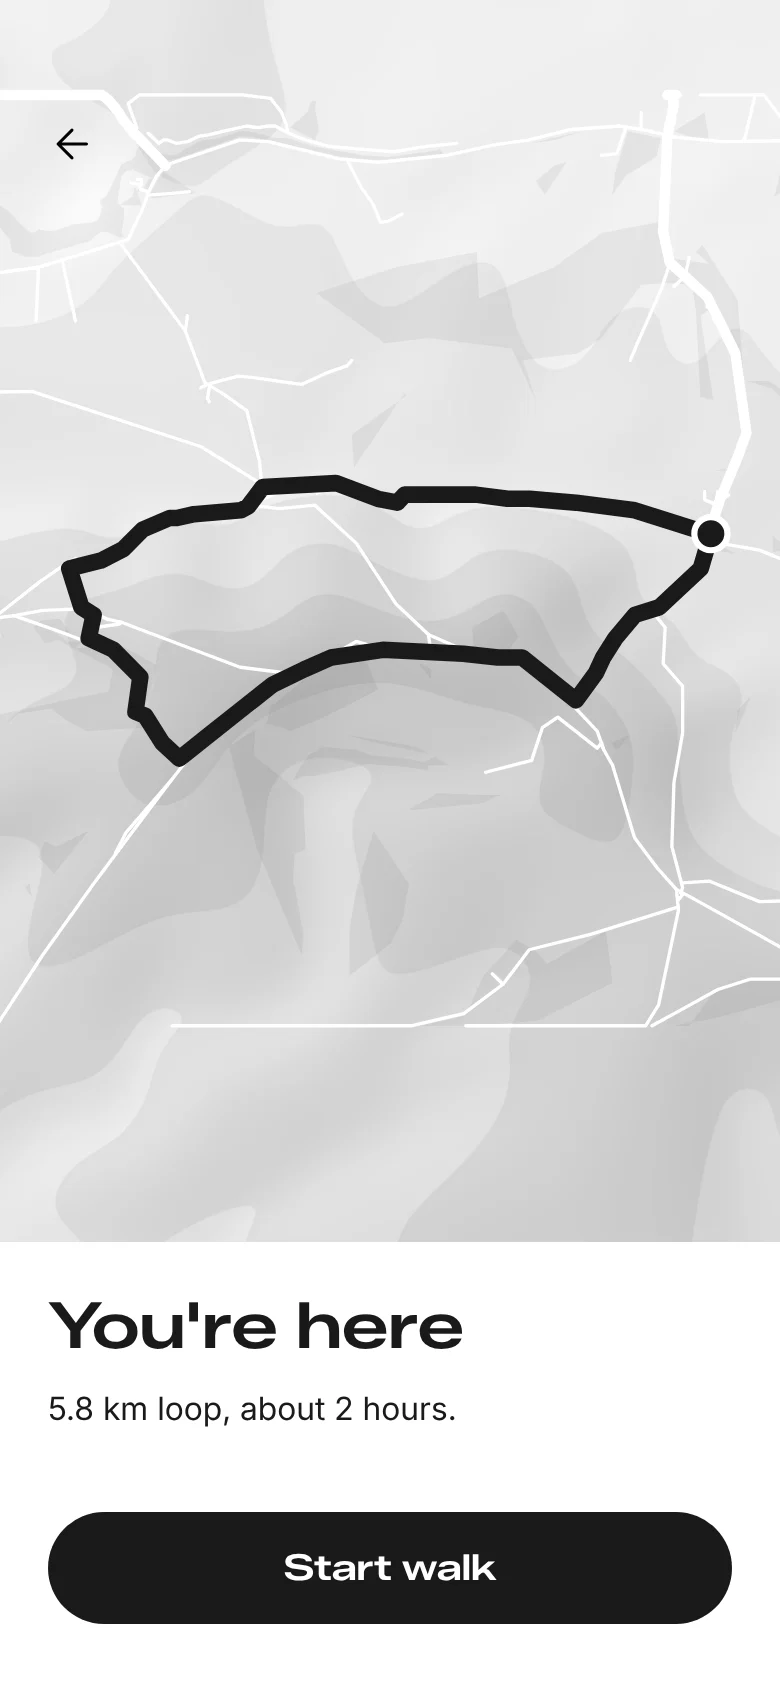
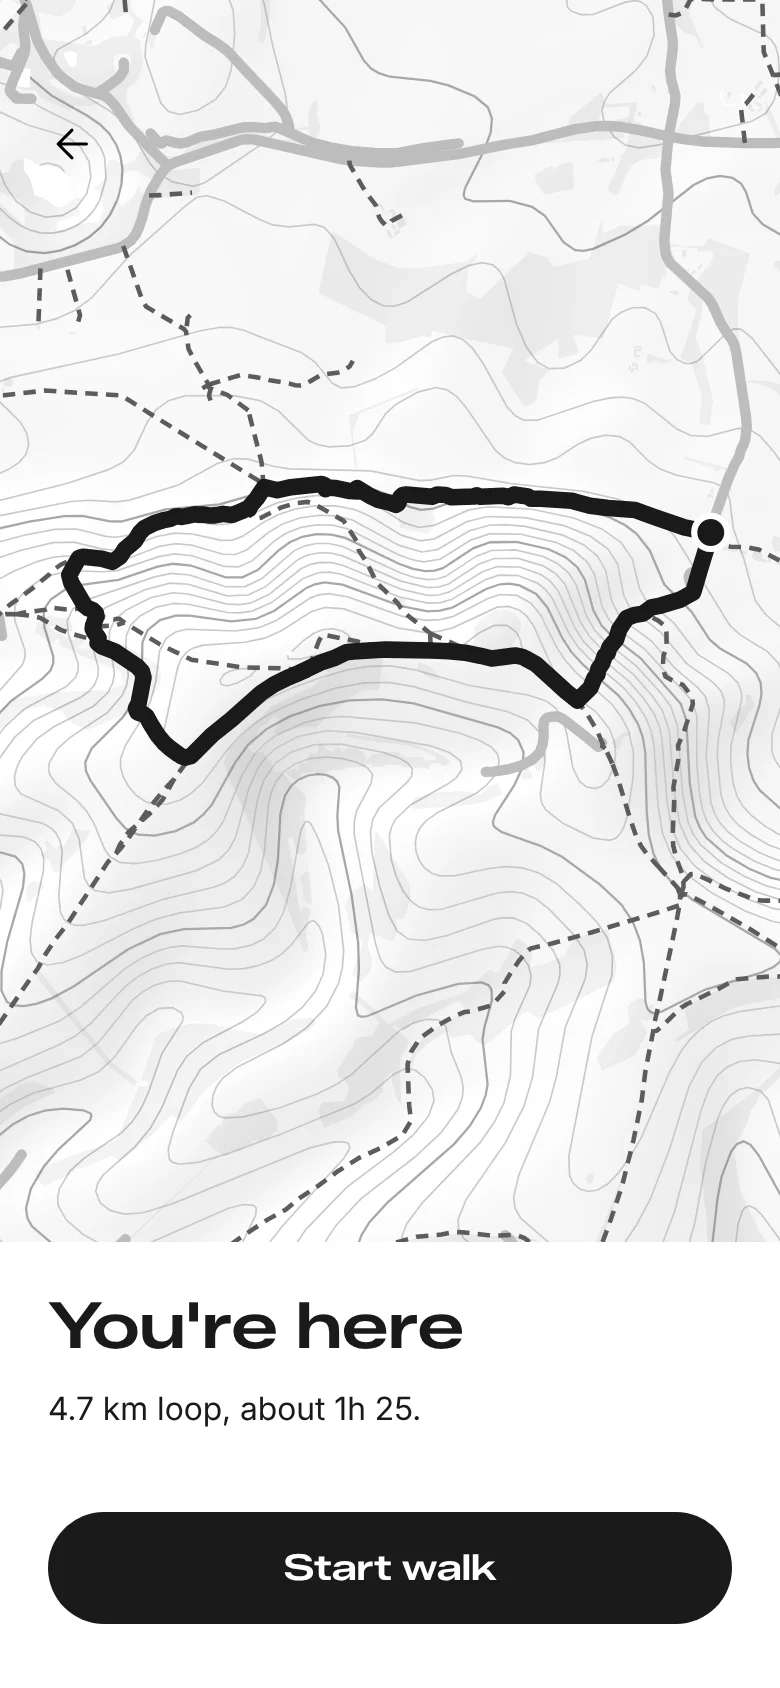
Site: map style B screens (car park, walking with height profile), 4.7 km Chanctonbury; last section keeps the day pictures cycling in the phone on desktop and ends on the text on mobile [skip ci]
Claude-Session: https://claude.ai/code/session_01P1qx1SC5aNyBh3YHTB1zPs

diff --git a/site/index.html b/site/index.html
@@ -198,7 +198,7 @@ html.menu-open .menu i:last-child{top:23px;transform:rotate(-45deg)}
     <section class="step" data-i="1">
       <div><h2>Somewhere you’ve<br>never been</h2>
         <p>Not a list of 400 trails to scroll through, just one walk, picked for the day and its weather.</p></div>
-      <div class="mphone"><div class="phone"><i class="frame"></i><div class="screen"><img src="screens/today.webp" alt="Today's walk: Chanctonbury Ring, 1h 13 drive, 5.8 km walk." loading="lazy"></div></div></div>
+      <div class="mphone"><div class="phone"><i class="frame"></i><div class="screen"><img src="screens/today.webp" alt="Today's walk: Chanctonbury Ring, 1h 13 drive, 4.7 km walk." loading="lazy"></div></div></div>
     </section>
     <section class="step" data-i="2">
       <div><h2>Google gets<br>you there</h2>
@@ -216,11 +216,10 @@ html.menu-open .menu i:last-child{top:23px;transform:rotate(-45deg)}
         <div class="days"><figure><img src="screens/wall-0.webp" alt="Chanctonbury Ring: the day as one white line on its weather colour" loading="lazy"></figure><figure><img src="screens/wall-1.webp" alt="Old Winchester Hill: the day as one white line on its weather colour" loading="lazy"></figure><figure><img src="screens/wall-2.webp" alt="Kithurst Hill: the day as one white line on its weather colour" loading="lazy"></figure><figure><img src="screens/wall-3.webp" alt="Harting Down: the day as one white line on its weather colour" loading="lazy"></figure><figure><img src="screens/wall-4.webp" alt="Bignor Hill: the day as one white line on its weather colour" loading="lazy"></figure></div></div>
       <div class="mphone"><div class="phone"><i class="frame"></i><div class="screen"><img src="screens/wall-0.webp" alt="A day picture: the drive and the walk as one white line on the weather colour." loading="lazy"></div></div></div>
     </section>
-    <section class="step last" data-i="5">
+    <section class="step last" data-i="-1">
       <div><h2>Nothing to unlock.<br>One price.</h2>
         <p>Offline maps, the off-path buzz and every walk are included. No account needed. It’s on Android first, and in testing now.</p>
         <a class="btn soon" href="mailto:hello@gethlid.app?subject=Try%20Hlid%20early&body=The%20email%20I%20use%20on%20Google%20Play%3A%20%0AWhere%20I%20live%20%28town%20or%20postcode%29%3A%20%0A">Try it early</a></div>
-      <div class="mphone"><div class="phone"><i class="frame"></i><div class="screen"><img src="screens/offline.webp" alt="Walking with no signal: the map and route still on screen, and the line under it reads 3.6 km to go. Offline, map saved." loading="lazy"></div></div></div>
     </section>
   </div>
   <div class="park" aria-hidden="true"><div class="phone" id="ph">
@@ -231,7 +230,6 @@ html.menu-open .menu i:last-child{top:23px;transform:rotate(-45deg)}
     <div class="screen" data-i="2"><img src="screens/carpark.webp" alt=""></div>
     <div class="screen" data-i="3"><img src="screens/walk.webp" alt=""></div>
     <div class="screen" data-i="4"><img src="screens/walks.webp" alt=""></div>
-    <div class="screen" data-i="5"><img src="screens/offline.webp" alt=""></div>
   </div></div>
 </div></main>
 <footer class="ftr"><div class="wrap"><div class="ftop">
